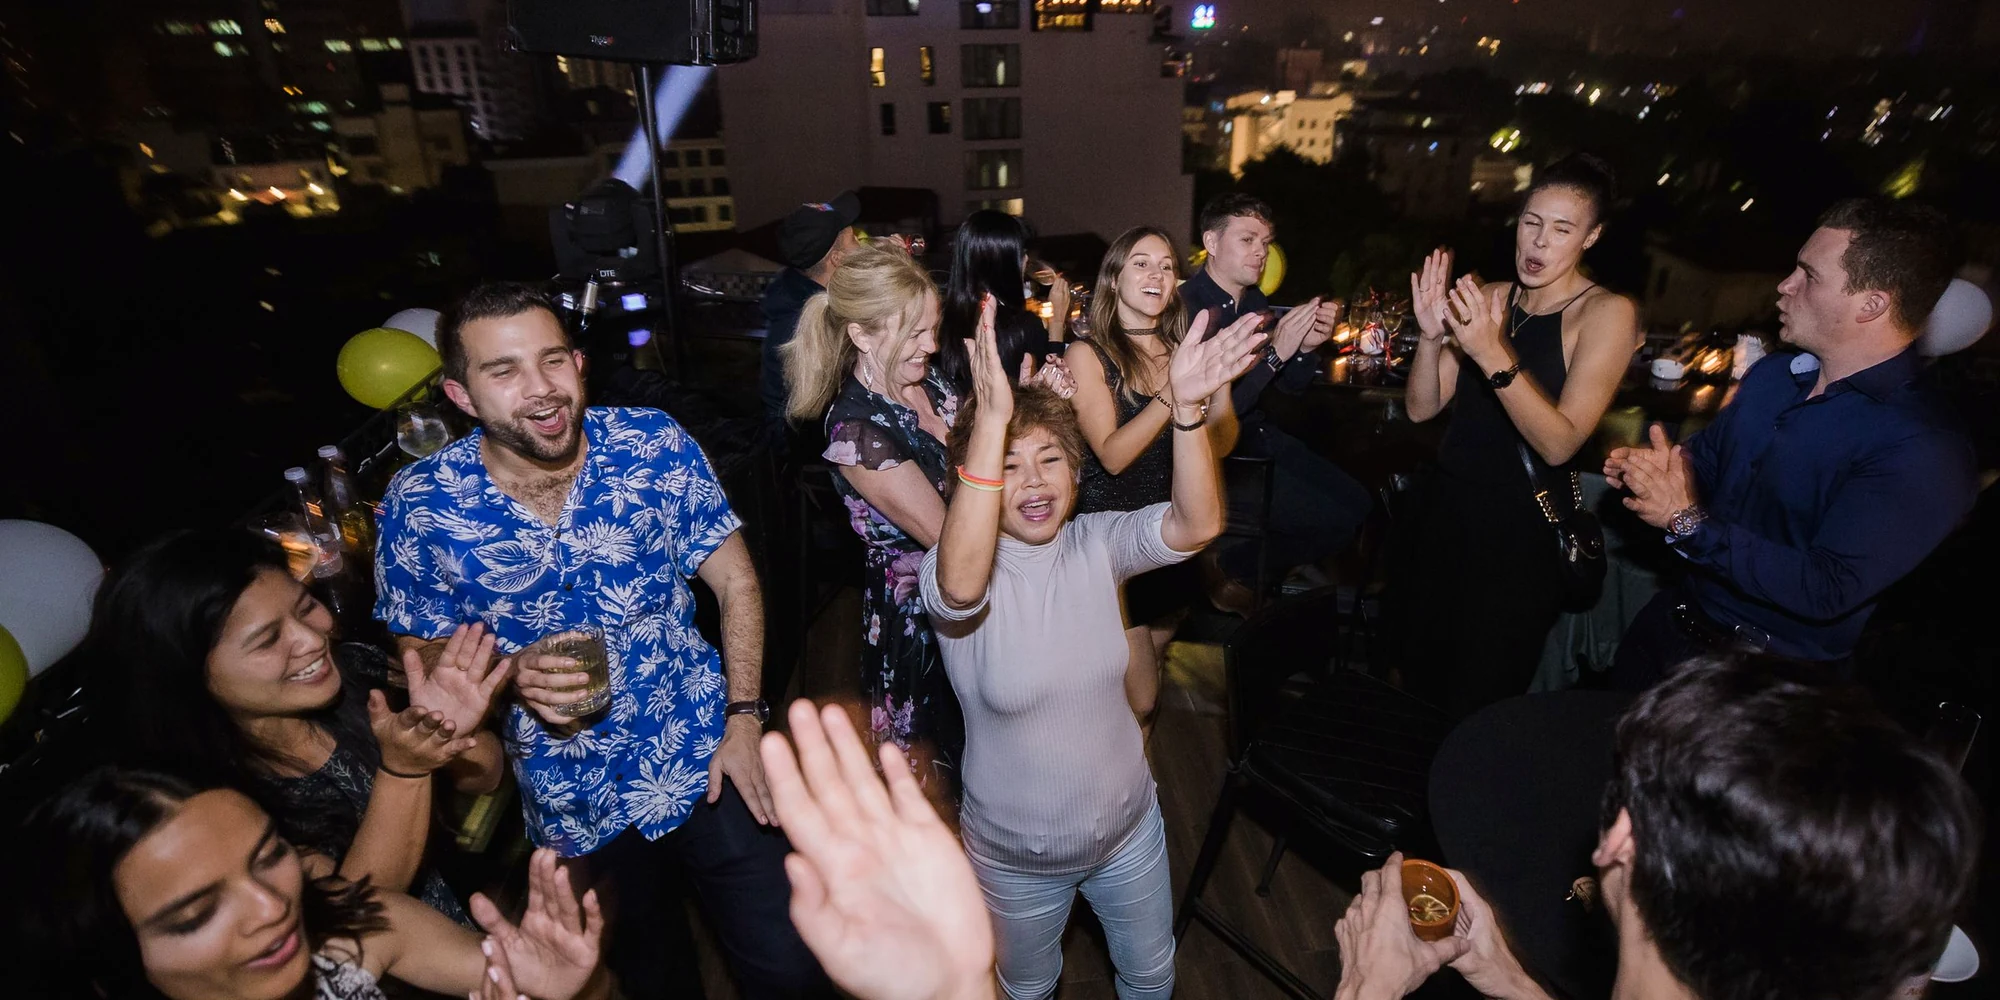
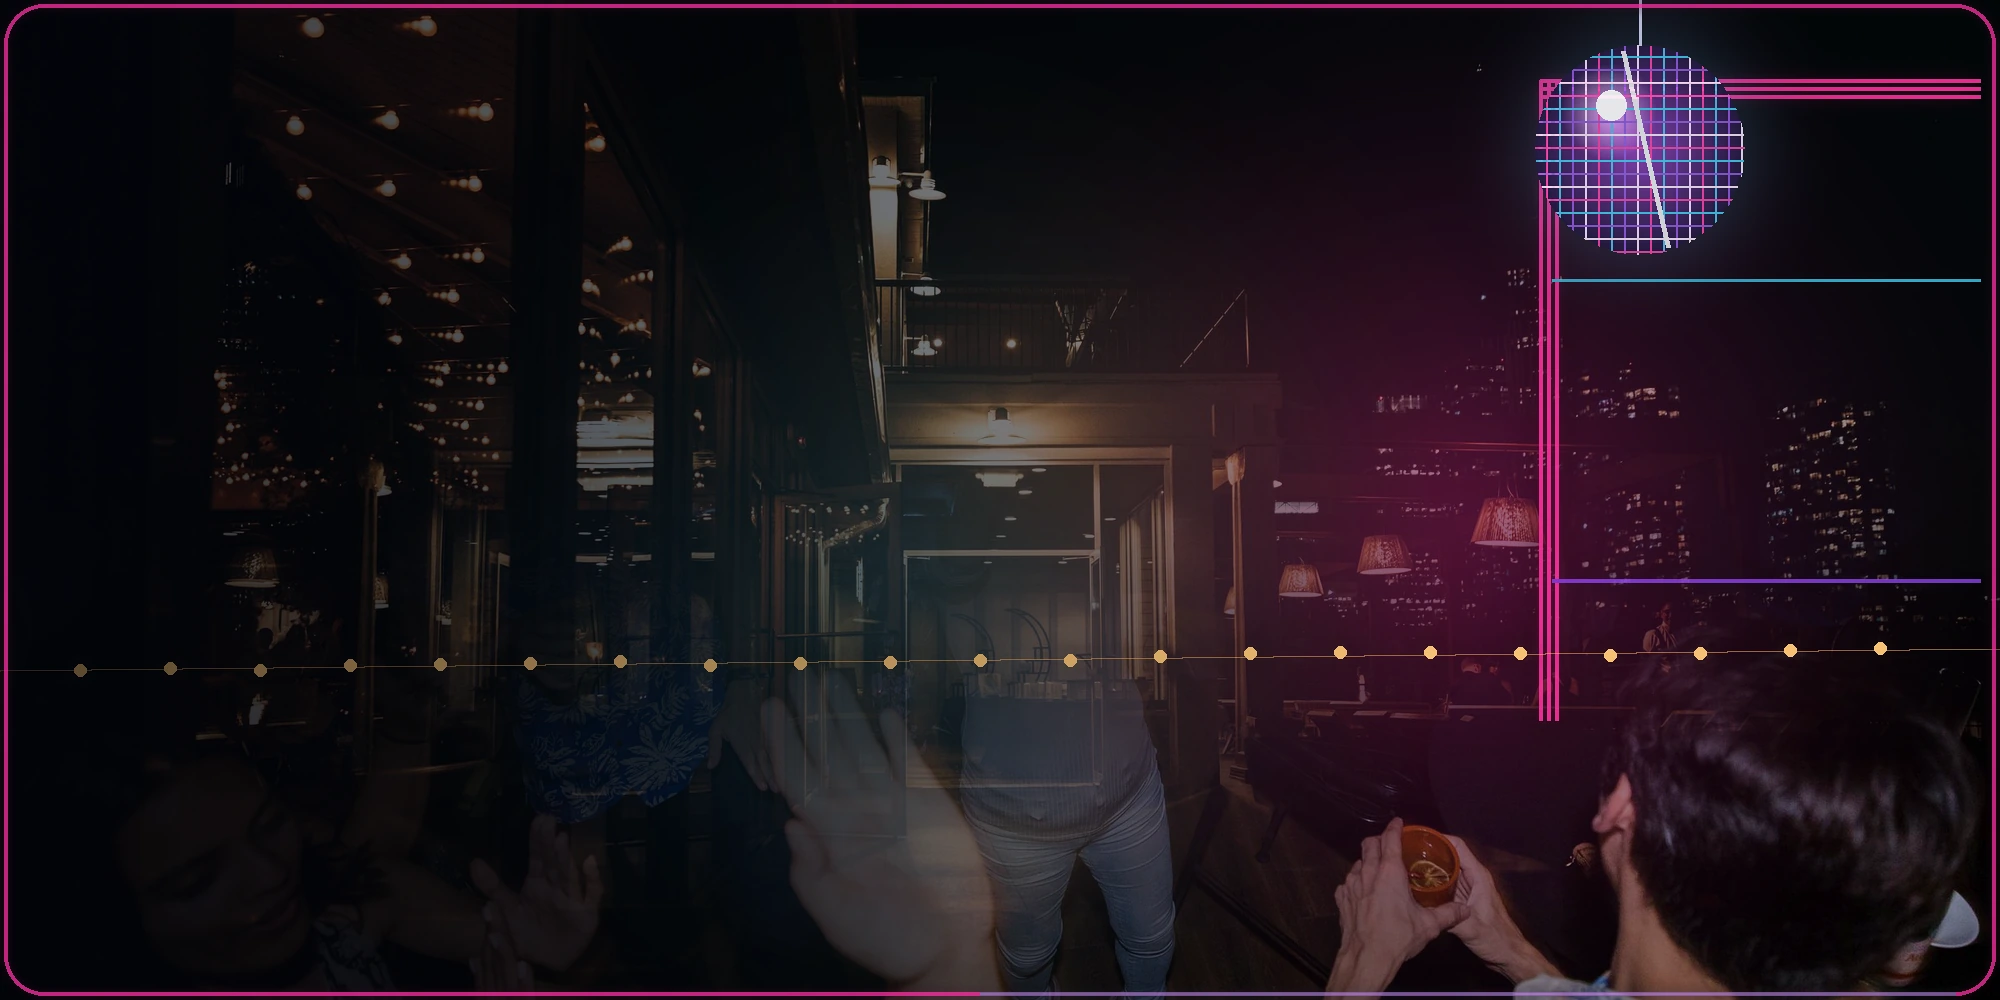
Build Zlachny v10 local assets [asset-bot]

diff --git a/zlachny-chisinau/v10.js b/zlachny-chisinau/v10.js
@@ -6,7 +6,7 @@ const statusRank={verified:0,partial:1,demo:2};
 const statusLabel={verified:'ПРОВЕРЕНО',partial:'ЧАСТИЧНО',demo:'ДЕМО'};
 const safe=v=>v===null||v===undefined||v===''?'Не подтверждено':v;
 function toast(text){const el=$('#toast');el.textContent=text;el.classList.add('show');clearTimeout(window.__toast);window.__toast=setTimeout(()=>el.classList.remove('show'),2400)}
-function localNow(){if(new URLSearchParams(location.search).has('qa'))return new Date('2026-07-28T21:00:00');return new Date(new Date().toLocaleString('en-US',{timeZone:'Europe/Chisinau'}))}
+function localNow(){if(new URLSearchParams(location.search).has('qa'))return new Date('2026-08-01T21:00:00');return new Date(new Date().toLocaleString('en-US',{timeZone:'Europe/Chisinau'}))}
 function isOpenNow(v){const now=localNow(),slot=v.schedule?.[String(now.getDay())];if(!slot)return false;const mins=now.getHours()*60+now.getMinutes(),parse=t=>{const [h,m]=t.split(':').map(Number);return h*60+m};const open=parse(slot[0]),close=parse(slot[1]);return close>open?mins>=open&&mins<close:mins>=open||mins<close}
 function validateVenue(v){const required=['id','name','type','categories','district','address','coordinates','hoursLabel','status','sources'];const missing=required.filter(k=>v[k]===undefined||v[k]===null);if(missing.length){console.warn('Venue skipped: missing fields',v?.id,missing);return false}if(!Array.isArray(v.categories)||!Array.isArray(v.sources)||!Number.isFinite(v.coordinates.lat)||!Number.isFinite(v.coordinates.lng)){console.warn('Venue skipped: invalid structure',v?.id);return false}if(v.status==='verified'&&(!v.verifiedAt||!v.sources.length)){console.warn('Venue skipped: verified item without evidence',v?.id);return false}return true}
 function filteredVenues(){const q=state.query.trim().toLowerCase();return state.venues.filter(v=>(!state.hideDemo||v.status!=='demo')&&(state.category==='all'||v.categories.includes(state.category))&&(state.district==='all'||v.district===state.district)&&(state.type==='all'||v.type===state.type)&&(state.music==='all'||v.music.includes(state.music))&&(state.price==='all'||v.priceLevel===state.price)&&(!state.openNow||isOpenNow(v))&&(!state.kitchen||v.kitchen===true)&&(!q||[v.name,v.type,v.district,v.address,v.description,...v.categories,...v.atmospheres,...v.tags,...v.music].join(' ').toLowerCase().includes(q))&&(state.atmosphere==='all'||v.atmospheres.includes(state.atmosphere))).sort((a,b)=>(statusRank[a.status]??9)-(statusRank[b.status]??9)||a.name.localeCompare(b.name,'ru'))}

diff --git a/zlachny-chisinau/assets/README.md b/zlachny-chisinau/assets/README.md
@@ -1,3 +1,3 @@
 # Local generated assets
 
-These files are generated by `scripts/build_v10.py` and committed by GitHub Actions. The published site serves them from this repository, not from third-party image CDNs. Venue images remain illustrative and are labelled as such in the UI. See `manifest.json` for source URLs and SHA-256 hashes.
+These files are generated by `scripts/build_v10.py` and committed by GitHub Actions. The published site serves them from this repository, not from third-party image CDNs. The hero is a project-specific composite recreating the approved nightlife reference: city skyline, active rooftop crowd, neon architecture and a disco ball. Venue images remain illustrative and are labelled as such in the UI. See `manifest.json` for source URLs and SHA-256 hashes.
